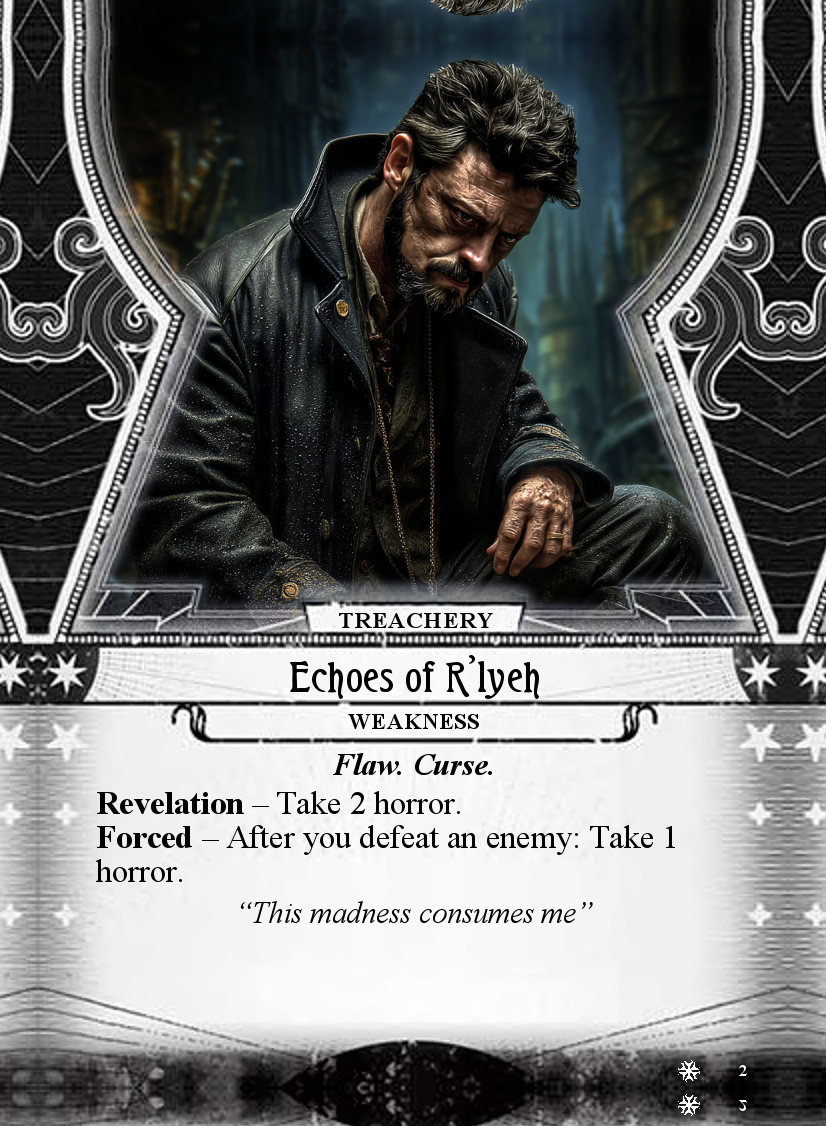
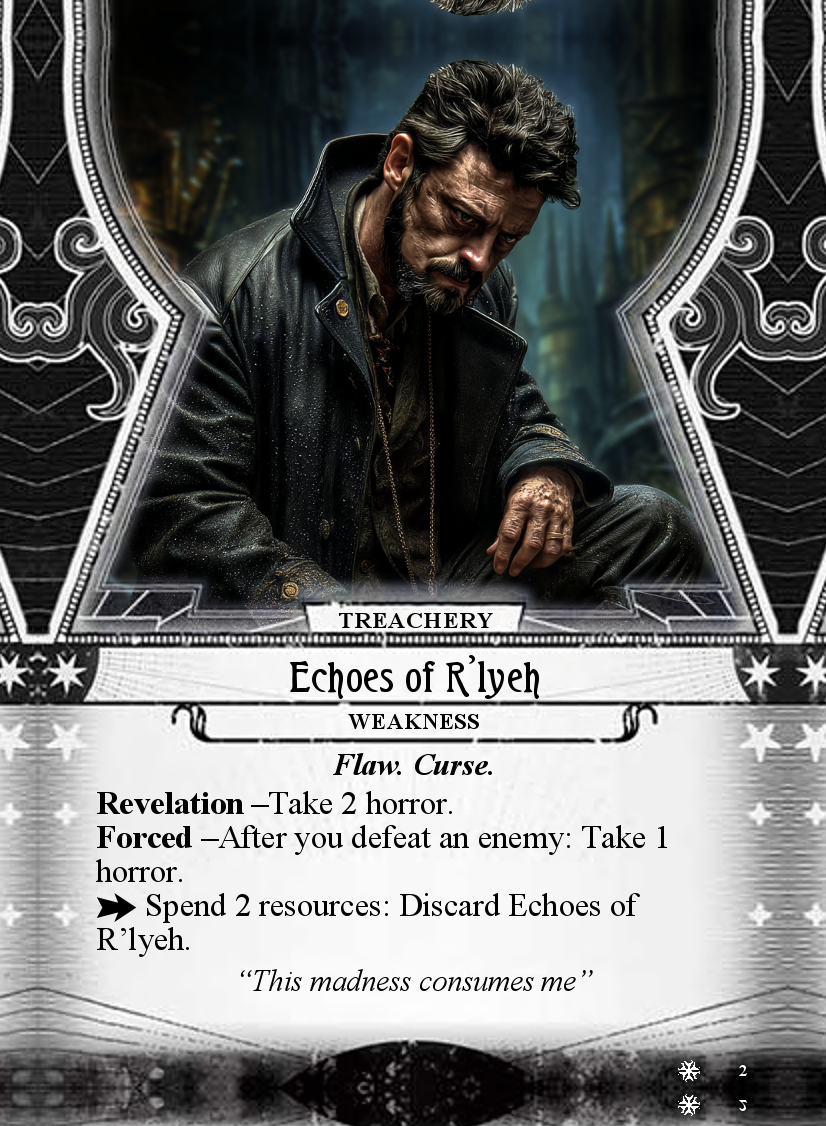
Ironhide: Echoes of R'lyeh discard cost 3r -> 2r, rename PNGs to RYP-JI convention

diff --git a/games/arkham-lcg/investigators/custom-1/Jonathan Ironhide/Jonathan-Ironhide-Card-Data.md b/games/arkham-lcg/investigators/custom-1/Jonathan Ironhide/Jonathan-Ironhide-Card-Data.md
@@ -121,7 +121,7 @@ If Hydra Hyde would be discarded, you may spend 2 resources to prevent it.
 
 **Forced** — After you defeat an enemy: Take 1 horror.
 
-**[Action]** Spend 3 resources: Discard Echoes of R'lyeh.
+**[Action]** Spend 2 resources: Discard Echoes of R'lyeh.
 
 ---
 
